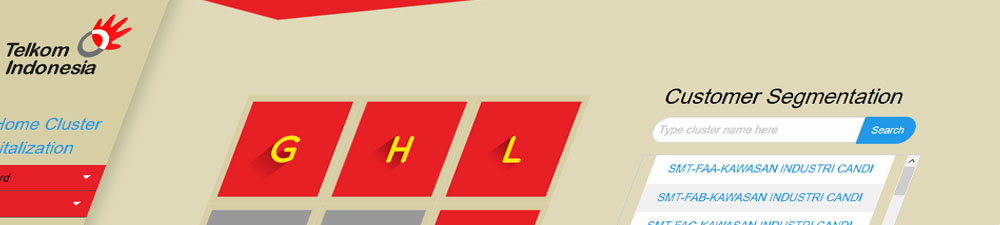
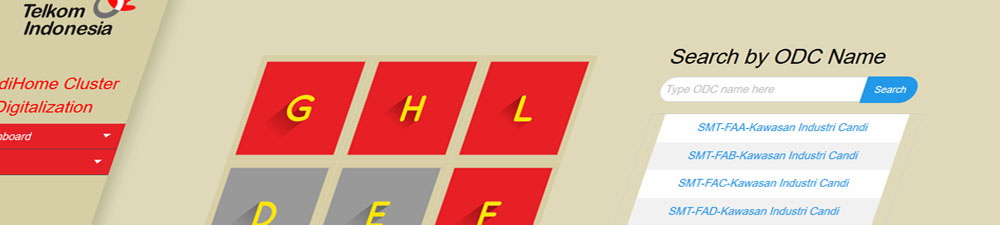
Change some visual

diff --git a/about_us.php b/about_us.php
@@ -39,7 +39,7 @@ if(isset($_SESSION['login_user'])){
 			<div class="inner">
 				<h1><center>ABOUT US</center></h1>
 				<br>
-				<h5><center>Telkom Indonesia Witel Semarang ( North of Center Java ) in our business process hold Semarang area and around it. It is divided into some small area, such as: Simpang Lima, Johar , Tugu , Majapahit, Banyumanik, and Candi.<</center></h5>
+				<h5><center>Telkom Indonesia Witel Semarang ( North of Center Java ) business hold Semarang and its surroundings. This business area are divided into several region: Simpang Lima, Johar , Tugu , Majapahit, Banyumanik, and Candi.</center></h5>
 			</div>
 		</div>
 		<br><br>
@@ -47,7 +47,7 @@ if(isset($_SESSION['login_user'])){
 			<div class="inner">
 				<h1><center>About This Project</center></h1>
 				<br>
-				<h5><center>This project , IndiHome Cluster Digitalization , is an application which we use to represent the data and information on the cluster of IndiHome service.</center></h5>
+				<h5><center>IndiHome Cluster Digitalization is an application which is built to represent the data and information of IndiHome service in Semarang area.</center></h5>
 			</div>
 		</div>
 		<br><br>
@@ -59,7 +59,7 @@ if(isset($_SESSION['login_user'])){
 					<button type="button" class="control" data-filter=".account">Account</button>
 					<button type="button" class="control" data-filter=".technology">Technology</button>
 					<button type="button" class="control" data-filter=".creative">Creative</button>
-					<button type="button" class="control" data-filter=".support">Data</button>
+					<button type="button" class="control" data-filter=".support">Content</button>
 				</div>
 
 				<div class="container">
@@ -87,15 +87,15 @@ if(isset($_SESSION['login_user'])){
 					<div class="mix technology">
 						<div class="t1"></div>
 						<div class="mix-text">
-							<h5>Abdulloh Al M.</h5>
-							<p>Back End Engineer</p>
+							<h5>Abdulloh A.</h5>
+							<p>Back-End Engineer</p>
 						</div>
 					</div>
 					<div class="mix technology">
 						<div class="t2"></div>
 						<div class="mix-text">
 							<h5>Faishal Azka J.</h5>
-							<p>Front End Engineer</p>
+							<p>Front-End Engineer</p>
 						</div>
 					</div>
 					<div class="mix creative">
@@ -116,56 +116,56 @@ if(isset($_SESSION['login_user'])){
 						<div class="s1"></div>
 						<div class="mix-text">
 							<h5>Aifatul Vipta F.E.I.</h5>
-							<p>Support</p>
+							<p>Contributor</p>
 						</div>
 					</div>
 					<div class="mix support">
 						<div class="s2"></div>
 						<div class="mix-text">
 							<h5>Fauzi Rachman</h5>
-							<p>Support</p>
+							<p>Contributor</p>
 						</div>
 					</div>
 					<div class="mix support">
 						<div class="s3"></div>
 						<div class="mix-text">
 							<h5>Hanif Wijdan M.</h5>
-							<p>Support</p>
+							<p>Contributor</p>
 						</div>
 					</div>
 					<div class="mix support">
 						<div class="s4"></div>
 						<div class="mix-text">
 							<h5>Julika Givary</h5>
-							<p>Support</p>
+							<p>Contributor</p>
 						</div>
 					</div>
 					<div class="mix support">
 						<div class="s5"></div>
 						<div class="mix-text">
 							<h5>Nicky Yudha A.</h5>
-							<p>Support</p>
+							<p>Contributor</p>
 						</div>
 					</div>
 					<div class="mix support">
 						<div class="s6"></div>
 						<div class="mix-text">
 							<h5>Okky Pratama P.</h5>
-							<p>Support</p>
+							<p>Contributor</p>
 						</div>
 					</div>
 					<div class="mix support">
 						<div class="s7"></div>
 						<div class="mix-text">
 							<h5>Tara Damayanti</h5>
-							<p>Support</p>
+							<p>Contributor</p>
 						</div>
 					</div>
 					<div class="mix support">
 						<div class="s8"></div>
 						<div class="mix-text">
 							<h5>Yafis Sukma K.</h5>
-							<p>Support</p>
+							<p>Contributor</p>
 						</div>
 					</div>
 

diff --git a/searchclust.php b/searchclust.php
@@ -11,9 +11,9 @@
 			foreach($search_exploded as $search_each){
 				$count++;
 				if($count==1){
-					$construct.="`Nama Cluster` LIKE '%".$search_each."%'";
+					$construct.="`Nama Cluster` LIKE '%".$search_each."%' OR `ODP` LIKE '%".$search_each."%'";
 				}else{
-					$construct.=" AND `Nama Cluster` LIKE '%".$search_each."%'";
+					$construct.=" AND (`Nama Cluster` LIKE '%".$search_each."%' OR `ODP` LIKE '%".$search_each."%')";
 				}
 			}
 			
@@ -24,7 +24,7 @@
 					echo '<tbody>';
 						while ($row = mysqli_fetch_array($query)){
 							echo '<tr>';
-								echo '<td><a href="page_view-datacluster.php?segment='.$row['9Cluster'].'&no='.$row['No'].'&search=1">'.$row['Nama Cluster'].'</a></td>';
+								echo '<td><a href="page_view-datacluster.php?segment='.$row['9Cluster'].'&no='.$row['No'].'&search=1">'.$row['ODP'].'-'.$row['Nama Cluster'].'</a></td>';
 							echo '</tr>';
 						}
 					echo '</tbody>';

diff --git a/page_view-segments.php b/page_view-segments.php
@@ -158,14 +158,14 @@ include('searchclust.php');
 
           <div class="large-4 large-pull-1 column inner" style="margin-top: 40px;">
             <div class="row">
-              <h3>Customer Segmentation</h3>
+              <h3>Search by ODC Name</h3>
             </div>
             <div class="row">
               <div class="large-12 columns">
                 <div class="row collapse">
                   <form action="" method="post">
                     <div class="small-9 columns">
-                     <input type="text" placeholder="Type cluster name here" name="nameclust">
+                     <input type="text" placeholder="Type ODC name here" name="nameclust">
                    </div>
                    <div class="small-3 columns">
                      <button class="button postfix round search-style" type="submit" name="search">Search</button>

diff --git a/datalist.php b/datalist.php
@@ -80,10 +80,12 @@ function clusterInfo($no){
 		<form target="_blank" action="custdata.php?no='.$no.'" method="POST"><button class="button expanded">Download Customer Data</button></form>
 	</ul></li>';
 
+	$kquery=mysqli_query($con, "SELECT * FROM kompetitor WHERE No = ".$no);
+	$krow=mysqli_fetch_array($kquery);																
 	echo '<li><a href="#"><b>Info Kompetitor :</b></a>
 	<ul class="no-data menu vertical sublevel-1">
-		<li><a class="subitem">Jumlah Kompetitor : xx</a></li>
-		<li><a class="subitem">Nama Kompetitor : xxx</a></li>
+		<li><a class="subitem">Kompetitor : '.$krow['NAMA KOMPETITOR'].'</a></li>
+		<li><a class="subitem">Harga Kompetitor : ~ Rp '.$krow['HARGA KOMPETITOR'].'</a></li>
 	</ul></li>';
 }
 
